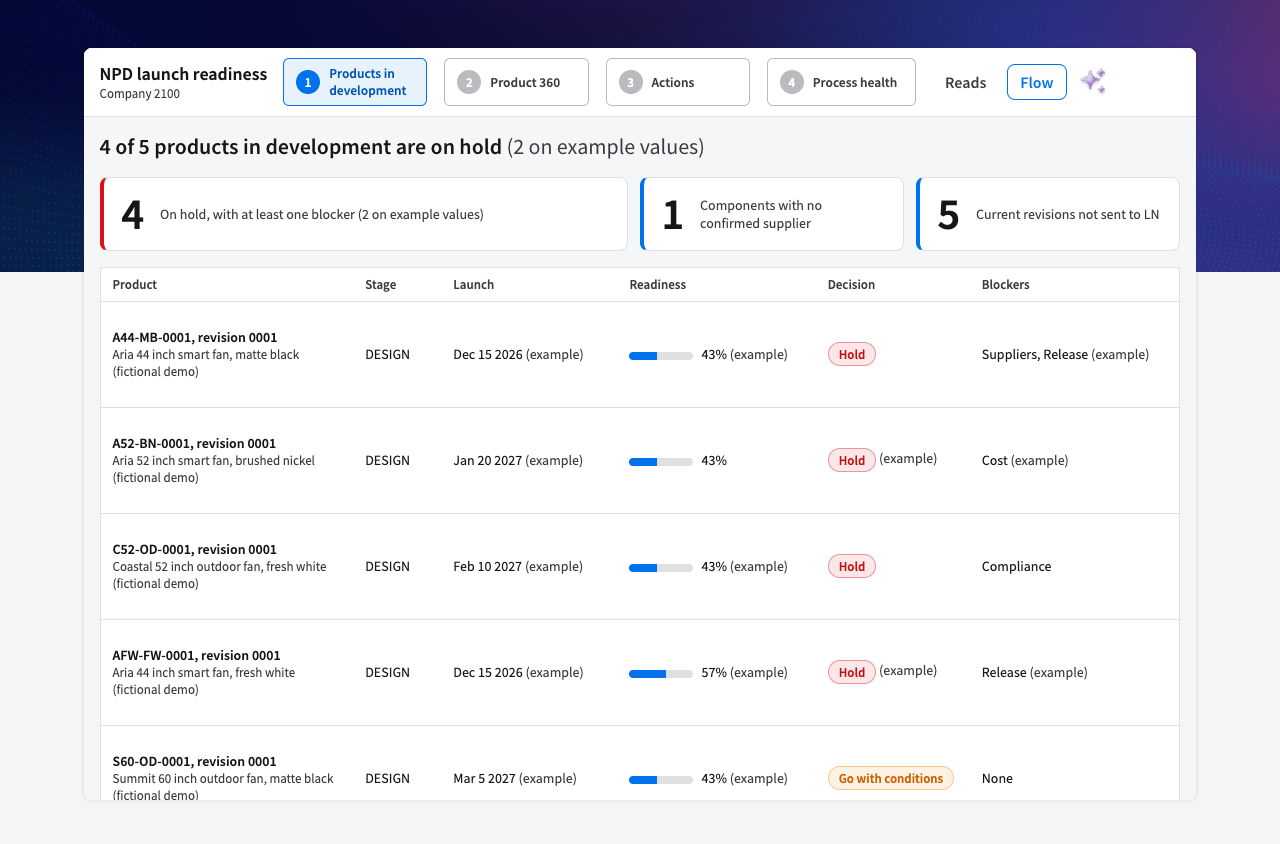
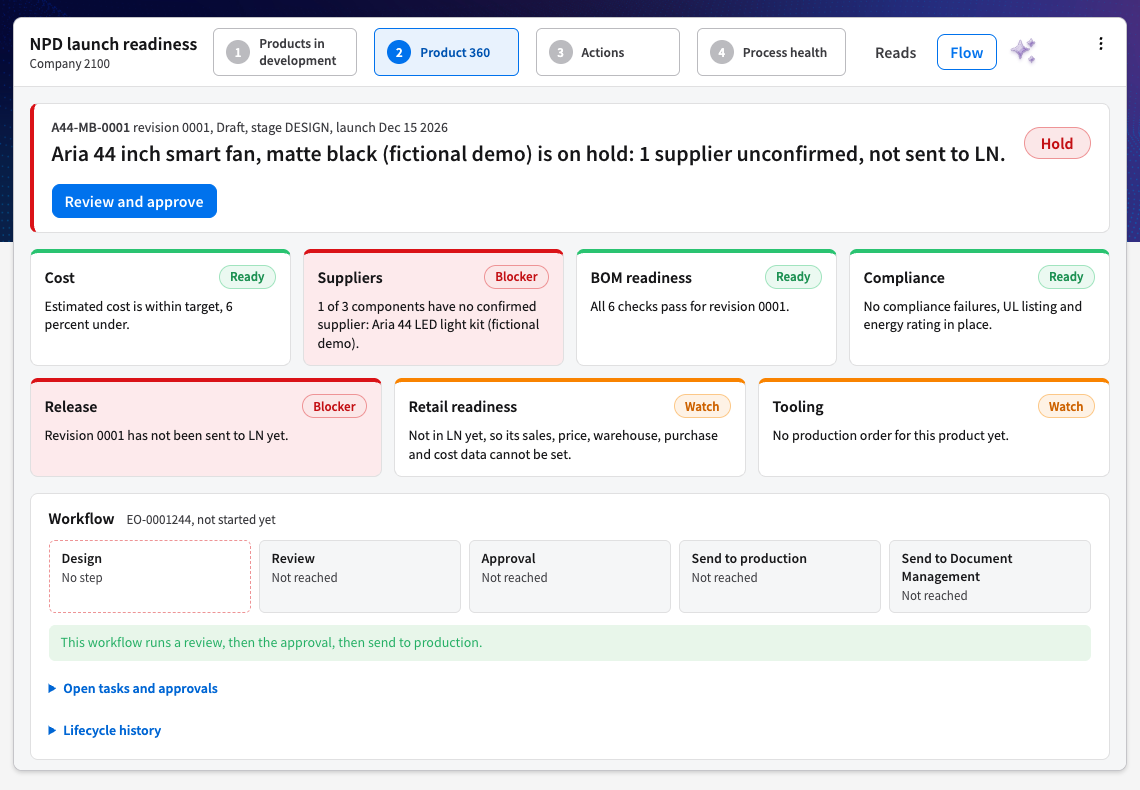
Update the workspace

diff --git a/index.html b/index.html
@@ -292,7 +292,7 @@
           </div>
           <div class="viewer" hidden><div class="viewer__bar"><span class="viewer__label">Fictional products, names and figures.</span><button class="viewer__x" type="button" data-see-close>Close</button></div><iframe sandbox="allow-scripts" title="Prototype"></iframe></div>
           <div class="vs rv"><div class="clip"><video muted loop playsinline preload="metadata" poster="media/clip-proto-npd-poster.jpg" src="media/clip-proto-npd.mp4"></video></div><div class="clip"><img src="media/real-npd-1.png" alt="NPD Launch Readiness on the demo tenant" loading="lazy"></div></div>
-          <p class="pair__line"><b>Carried over:</b> the list of products with a go or hold, the 5 checks and the next actions. <b>Became real:</b> items, revisions and pictures read from PLM on Infor demo data. Target cost, launch date, UL listing and energy rating are examples, and the PLM workflow request is a preview.</p>
+          <p class="pair__line"><b>Carried over:</b> the list of products with a go or hold, the 5 checks and the next actions. <b>Became real:</b> items, revisions, pictures, target cost, launch date and energy rating, read from PLM on fictional products in an Infor demo tenant. Review and approve opens the PLM workflow hand-off, which has not yet run in the demo tenant.</p>
         </div>
         <div class="meta-row"><span class="tag tag--hub">Hub card: Change Impact Intelligence Agent</span><span class="tag tag--p">P2 Idea to Product</span></div>
       <a class="nextline" data-go="real-item-setup-readiness" href="#real-item-setup-readiness"><b>Next:</b> 4.2 Item Setup Readiness. The item is created, but it can't be sold yet.</a>
@@ -372,6 +372,7 @@
           <div class="head__acts"><a class="demo-btn" data-demo="blocked-orders" href="#">Demo<svg viewBox="0 0 24 24"><path d="M7 17L17 7M9 7h8v8"/></svg></a></div>
         </div>
         <div class="tw rv"><div class="tw__c"><div class="heard__k">What we heard</div><p>Blocked orders hold an estimated $50K to $250K a day: margin, EDI, carrier account, customer setup, item cross references. When promo prices are too heavy to load, orders go on margin block instead.</p></div><div class="tw__c"><div class="heard__k">Starts from</div><p>The Order to Cash exception work that already runs on the demo tenant.</p></div><div class="tw__c"><div class="heard__k">What changes for you</div><p>Prioritized before anyone opens it, like a cockpit rather than a chat.</p></div></div>
+        <div class="clip rv sub-still"><img src="media/real-blocked-1.png" alt="Blocked orders on the demo tenant" loading="lazy"></div>
         <p class="pair__line"><b>Still to prove:</b> how long each order has been blocked. We show it only if the data backs it.</p>
         <div class="meta-row"><span class="tag tag--hub">Hub card: Touchless O2C Exception Handling</span><span class="tag tag--p">Phase 1</span></div>
         <a class="nextline" data-go="real-online-store" href="#real-online-store"><b>Next:</b> 5.3 Online store integration.</a>
@@ -385,6 +386,7 @@
           <div class="head__acts"><a class="demo-btn" data-demo="online-store" href="#">Demo<svg viewBox="0 0 24 24"><path d="M7 17L17 7M9 7h8v8"/></svg></a></div>
         </div>
         <div class="tw rv"><div class="tw__c"><div class="heard__k">What we heard</div><p>A new store for business customers and a rewrite of the consumer integration, due next September. Shopify uses GraphQL, so can we feed in the API and build the integration?</p></div><div class="tw__c"><div class="heard__k">Starts from</div><p>The same page kit as Item Setup, and Infor API Gateway, which can reach APIs outside Infor.</p></div><div class="tw__c"><div class="heard__k">What changes for you</div><p>A real two-way link between LN on the demo tenant and a Shopify development store, with fictional fans: publish an item, its price and stock; a store order becomes a sales order in LN; status flows back.</p></div></div>
+        <div class="clip rv sub-still"><img src="media/real-store-1.png" alt="Online store integration on the demo tenant" loading="lazy"></div>
         <p class="pair__line"><b>Not proven yet:</b> how much of the integration an agent can build. We show which parts an agent wrote and which a person did.</p>
         <div class="meta-row"><span class="tag tag--p">Your board date</span></div>
         <a class="nextline" data-go="proto-pricing" href="#proto-pricing"><b>Next:</b> 5.4 Pricing maintenance.</a>

diff --git a/js/config.js b/js/config.js
@@ -16,8 +16,8 @@ window.PROTO_URLS = {
   "npd-launch-readiness":       "https://starforge.ai.infor.com/p/velocity-change-impact-intelligence/g/ef4e43b0-2262-4921-9d87-5b21f429c938?version=v3",
   "change-impact":              "https://starforge.ai.infor.com/p/velocity-change-impact-intelligence/g/464b6922-19f2-4797-b187-14d7d3c023a0?version=v2",
   "item-360":                   "https://starforge.ai.infor.com/p/velocity-item-master/g/2322d60d-ad92-4446-be8a-ef2daf83e984?version=v4",
-  "engineering-data-migration": "https://starforge.ai.infor.com/p/velocity-plm-for-discrete-excel-to-import-package/g/b0f511f8-a0eb-4d10-aaba-72214bc8f877?version=v1",
-  "plm-first-item-launch":      "https://starforge.ai.infor.com/p/velocity-item-creation-automation-and-approval-flow/g/3c8db1f5-f93f-430a-887f-3a707c3a25df?version=v1",
+  "engineering-data-migration": "https://starforge.ai.infor.com/p/velocity-plm-for-discrete-excel-to-import-package/g/b0f511f8-a0eb-4d10-aaba-72214bc8f877?version=v3",
+  "plm-first-item-launch":      "https://starforge.ai.infor.com/p/velocity-item-creation-automation-and-approval-flow/g/3c8db1f5-f93f-430a-887f-3a707c3a25df?version=v2",
   "pricing-maintenance":        "https://starforge.ai.infor.com/p/velocity-pricing-intelligence/g/601c9592-9fec-4542-b0a9-37301341253d?version=v1",
   "retailer-content":           "https://starforge.ai.infor.com/p/velocity-item-master/g/657b658e-ba21-4d44-8e5f-992fad11e368?version=v1"
 };

diff --git a/css/mock.css b/css/mock.css
@@ -318,3 +318,6 @@
 .cards--gen3 .card, .cards--gen2 .card { min-height: 0; }
 @media (max-width: 860px) { .cards.cards--gen3, .cards.cards--gen2 { grid-template-columns: minmax(0, 1fr); } }
 .general-h:first-of-type { margin-top: 14px; }
+
+.sub-still { max-width: 1100px; margin: 4px 0 8px; }
+.sub-still img { display: block; width: 100%; height: auto; background: #fff; }
